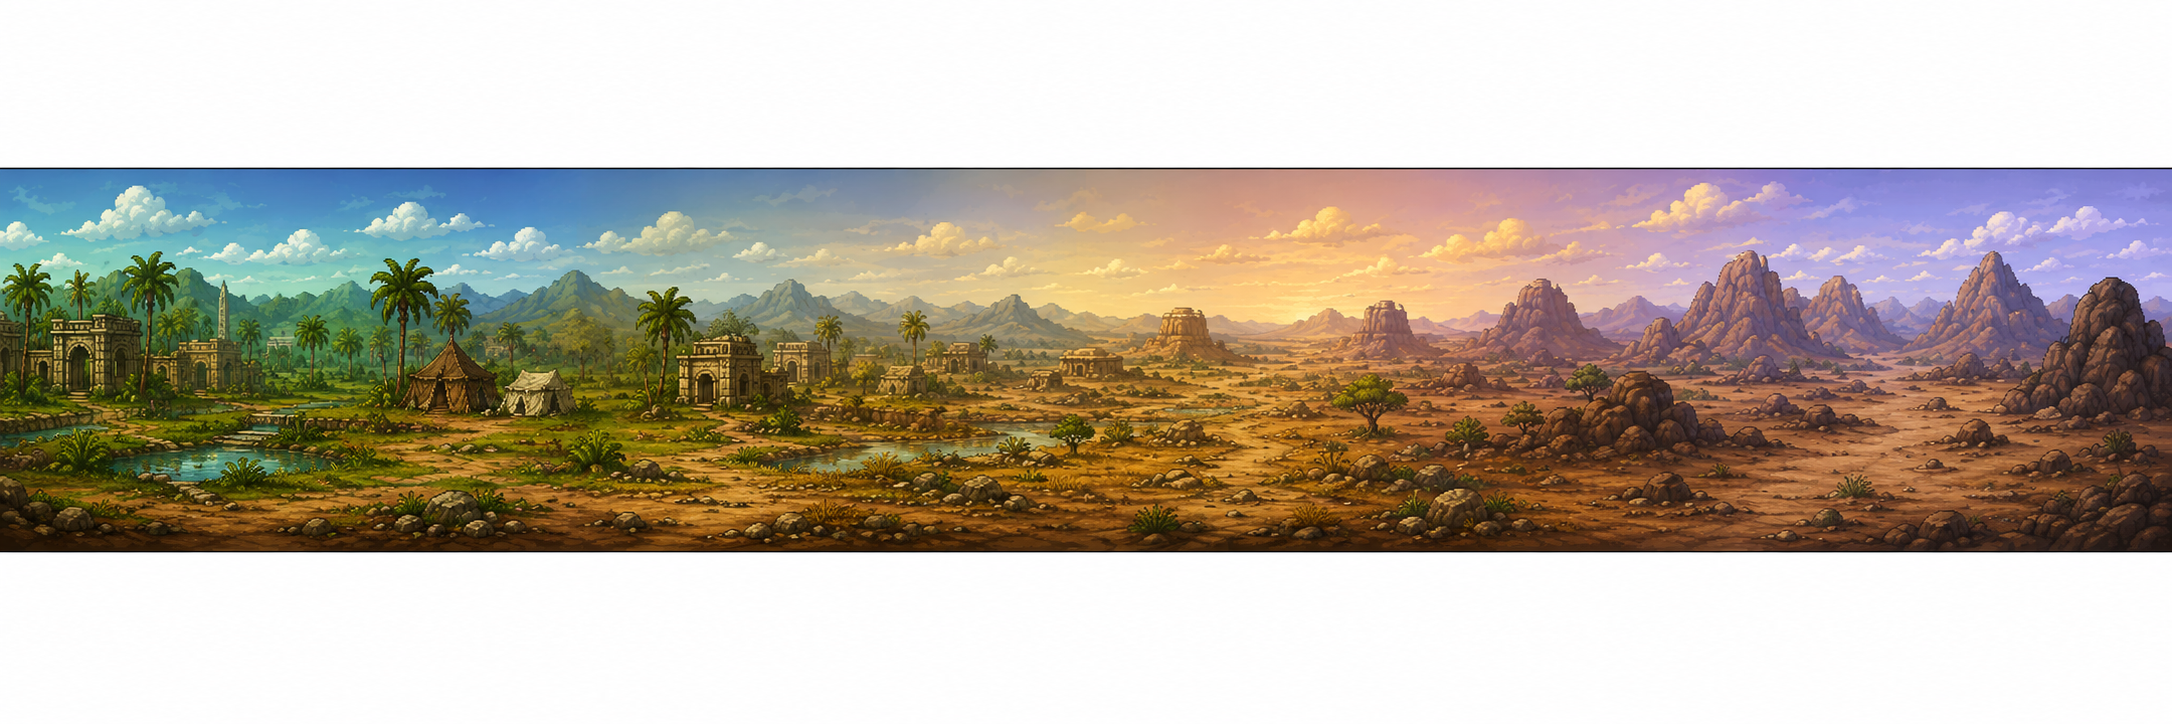
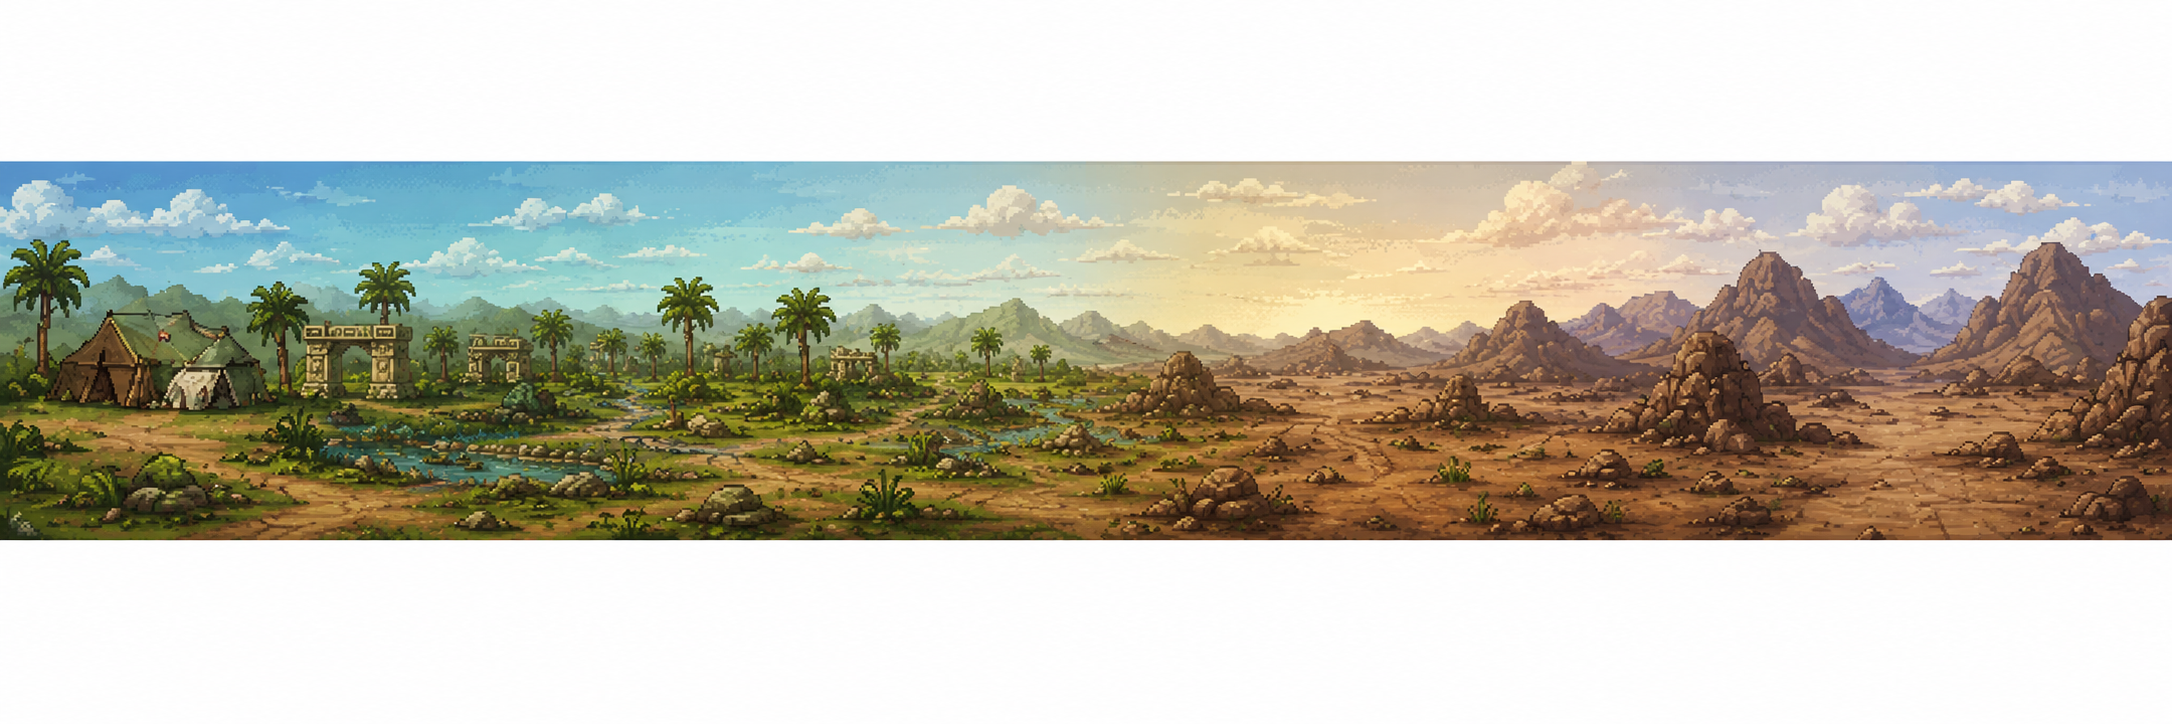
Backdrop art for eight more legs, and an importer to land it
Nine of the twelve legs are now painted. Wired: 2 (Succoth to Etham),
5 (the far shore to Marah), 7 (Elim to the Red Sea), 8, 9, 10, 11 and 12.

scripts/import-backdrops.py does the conversion. The delivered files are
artwork inset in white matting with a thin dark border, and three things
have to happen: find the art inside the matting, step past the
anti-aliased rows against the border rule, and export at exactly 360px
tall so Phaser draws at scale 1.0 and never resamples.

Auto-detection rather than a fixed crop, and that mattered — across the
eight files the art band ranged from 343 to 432 rows, so leg 1's
hand-tuned crop would have been wrong for every one of them. The script
was validated by pointing it at leg 1's source and confirming it
reproduces the shipped crop exactly.

Two legs are short and one asset is unusable:

- backgroud_etham_red_sea_crossing.png is 335x97, a thumbnail rather than
  a backdrop, so legs 3 and 4 stay on generated scenery.
- background_marah_by_the_sea.png is not Marah to Elim. It opens on palms
  and pools and ends at the sea, and palms and springs are Elim's
  recorded detail, not Marah's — so it is Elim to the Red Sea, and is
  wired to leg 7. Leg 6 has no art.

Every shipped backdrop is checked against its own leg's ceiling: all nine
are 360px tall, draw at scale 1.0, and are consumed edge to edge as the
leg is walked.

422 tests pass, content validates, production build clean.

diff --git a/src/content/episode1/legs.ts b/src/content/episode1/legs.ts
@@ -46,6 +46,7 @@ export const legs: Leg[] = [
       ref("numbers", 33, "6"),
     ),
     terrain: "coastal-sand",
+    backdrop: "/art/leg-02-succoth-etham.webp",
     scripted: [
       { eventId: "the-long-way-round", atProgress: 0.15 },
       { eventId: "josephs-bones", atProgress: 0.5 },
@@ -117,6 +118,7 @@ export const legs: Leg[] = [
       ref("numbers", 33, "8"),
     ),
     terrain: "open-desert",
+    backdrop: "/art/leg-05-marah.webp",
     scripted: [
       { eventId: "the-song-at-the-sea", atProgress: 0.02 },
       { eventId: "the-first-dry-day", atProgress: 0.3 },
@@ -162,6 +164,7 @@ export const legs: Leg[] = [
       ref("numbers", 33, "10"),
     ),
     terrain: "coastal-sand",
+    backdrop: "/art/leg-07-red-sea.webp",
     scripted: [
       { eventId: "the-quiet-leg", atProgress: 0.35 },
       { eventId: "counting-the-days", atProgress: 0.75 },
@@ -183,6 +186,7 @@ export const legs: Leg[] = [
       ref("exodus", 16, "1"),
     ),
     terrain: "open-desert",
+    backdrop: "/art/leg-08-wilderness-of-sin.webp",
     scripted: [
       { eventId: "the-flesh-pots-of-egypt", atProgress: 0.45 },
       { eventId: "bread-from-the-sky", atProgress: 0.8 },
@@ -209,6 +213,7 @@ export const legs: Leg[] = [
       ref("numbers", 33, "12"),
     ),
     terrain: "rocky-wadi",
+    backdrop: "/art/leg-09-dophkah.webp",
     scripted: [
       { eventId: "the-sixth-day", atProgress: 0.2 },
       { eventId: "the-seventh-day", atProgress: 0.7 },
@@ -230,6 +235,7 @@ export const legs: Leg[] = [
       ref("numbers", 33, "13"),
     ),
     terrain: "rocky-wadi",
+    backdrop: "/art/leg-10-alush.webp",
     scripted: [
       { eventId: "a-place-with-only-a-name", atProgress: 0.25 },
       { eventId: "the-second-week", atProgress: 0.7 },
@@ -250,6 +256,7 @@ export const legs: Leg[] = [
       ref("numbers", 33, "14"),
     ),
     terrain: "rocky-wadi",
+    backdrop: "/art/leg-11-rephidim.webp",
     scripted: [
       { eventId: "no-water-at-rephidim", atProgress: 0.4 },
       // One choice only, so the water cannot be a reward for choosing well.
@@ -277,6 +284,7 @@ export const legs: Leg[] = [
       ref("exodus", 19, "1"),
     ),
     terrain: "mountain-approach",
+    backdrop: "/art/leg-12-sinai.webp",
     scripted: [
       { eventId: "jethro-arrives", atProgress: 0.25 },
       { eventId: "the-mountain", atProgress: 0.72 },

diff --git a/scripts/import-backdrops.py b/scripts/import-backdrops.py
@@ -1,0 +1,86 @@
+"""
+Turn a delivered backdrop painting into the WebP the travel scene loads.
+
+The source files arrive as artwork inset in white matting with a thin dark border
+around it. Three things have to happen, and the reason for each is in the code:
+
+  1. Find the artwork inside the matting, rather than assuming a fixed crop —
+     the inset is not identical between files.
+  2. Drop the anti-aliased rows against the border, which otherwise show as a
+     faint dark edge along the top and bottom of the scene.
+  3. Export at exactly the canvas height (360px) so Phaser draws at scale 1.0
+     and never resamples.
+
+Width is deliberately left alone. The scroll factor is
+`min((width - 640) / (legKm * 200), 1)`, so any panorama narrower than
+`legKm * 200 + 640` is consumed exactly edge to edge, which is what the derived
+parallax wants. See the backdrop brief in PLAN.md.
+
+Usage:  python scripts/import-backdrops.py <source.png> <out.webp>
+"""
+
+import sys
+from PIL import Image
+
+CANVAS_HEIGHT = 360
+# Rows/columns brighter than this on average are matting, not artwork.
+WHITE = 245
+# A row this flat is the border rule itself rather than any painted content.
+FLAT_SPREAD = 40
+# Rows immediately inside the border are part-border, part-art. They read as real
+# content by any flatness test and still show as a faint dark edge in the scene,
+# so a fixed margin is stepped past once the rule itself has been found.
+AA_MARGIN = 2
+
+
+def band(values, is_content):
+    """First and last index for which `is_content` holds, or None."""
+    hits = [i for i, v in enumerate(values) if is_content(v)]
+    return (hits[0], hits[-1]) if hits else None
+
+
+def row_stats(px, width, y, step=8):
+    vals = [sum(px[x, y]) / 3 for x in range(0, width, step)]
+    return sum(vals) / len(vals), max(vals) - min(vals)
+
+
+def col_mean(px, height, x, step=8):
+    vals = [sum(px[x, y]) / 3 for y in range(0, height, step)]
+    return sum(vals) / len(vals)
+
+
+def convert(src_path, out_path):
+    im = Image.open(src_path).convert("RGB")
+    width, height = im.size
+    px = im.load()
+
+    rows = [row_stats(px, width, y) for y in range(height)]
+    vertical = band(rows, lambda r: r[0] < WHITE)
+    if vertical is None:
+        raise SystemExit(f"{src_path}: no artwork found — the whole image is matting")
+    top, bottom = vertical
+
+    # Step past the border rule and its anti-aliased neighbours at both edges.
+    while top < bottom and rows[top][1] < FLAT_SPREAD:
+        top += 1
+    while bottom > top and rows[bottom][1] < FLAT_SPREAD:
+        bottom -= 1
+    top = min(top + AA_MARGIN, bottom)
+    bottom = max(bottom - AA_MARGIN, top)
+
+    cols = [col_mean(px, height, x) for x in range(width)]
+    horizontal = band(cols, lambda v: v < WHITE)
+    left, right = horizontal if horizontal else (0, width - 1)
+
+    crop = im.crop((left, top, right + 1, bottom + 1))
+    target_w = round(crop.size[0] * CANVAS_HEIGHT / crop.size[1])
+    out = crop.resize((target_w, CANVAS_HEIGHT), Image.LANCZOS)
+    out.save(out_path, "WEBP", quality=90, method=6)
+    return crop.size, out.size
+
+
+if __name__ == "__main__":
+    if len(sys.argv) != 3:
+        raise SystemExit(__doc__)
+    cropped, final = convert(sys.argv[1], sys.argv[2])
+    print(f"{sys.argv[1]} -> {sys.argv[2]}  crop {cropped}  final {final}")

diff --git a/PLAN.md b/PLAN.md
@@ -107,7 +107,21 @@ consumed exactly as the leg is walked, so you set out at its left edge and arriv
 right edge as you reach the camp. Legs without art fall back to generated layers, so
 legs 2–12 stay playable before their art exists.
 
-Brief for the remaining eleven backdrops:
+**Nine of twelve legs are painted.** Delivered art is imported with
+`python scripts/import-backdrops.py <source.png> <out.webp>`, which finds the artwork
+inside its white matting, steps past the anti-aliased rows against the border, and exports
+at exactly 360px tall. Auto-detection rather than a fixed crop, because the inset varies:
+across the eight imported files the art band ranged 343 to 432 rows. The script reproduces
+the hand-tuned Leg 1 crop exactly, which is how it was validated.
+
+Still on generated scenery: **legs 3, 4 and 6.** Legs 3 and 4 (Etham → Pi-hahiroth, and the
+crossing) have only a 335×97 thumbnail — `backgroud_etham_red_sea_crossing.png` is too small
+to use. Leg 6 (Marah → Elim) has no art at all, because `background_marah_by_the_sea.png`
+turned out to be Elim → the Red Sea rather than Marah → Elim: it opens on palms and pools
+and ends at the water, and palms and springs are Elim's detail, not Marah's. It is wired to
+leg 7 accordingly.
+
+Brief for the remaining backdrops:
 - **One continuous panorama per leg**, exported at exactly the canvas height (360px) so
   Phaser draws it at scale 1.0 and never resamples it. Width is free: the scroll factor
   is `min((width − 640) / (legDistanceKm × 200), 1)`, so **any** panorama narrower than
